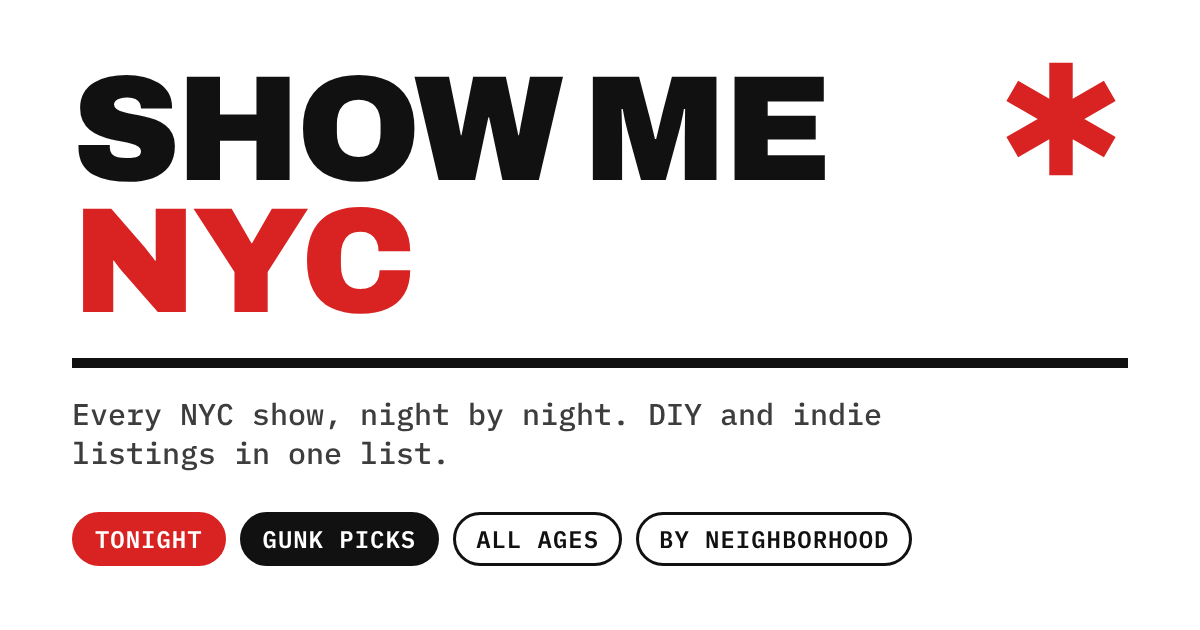
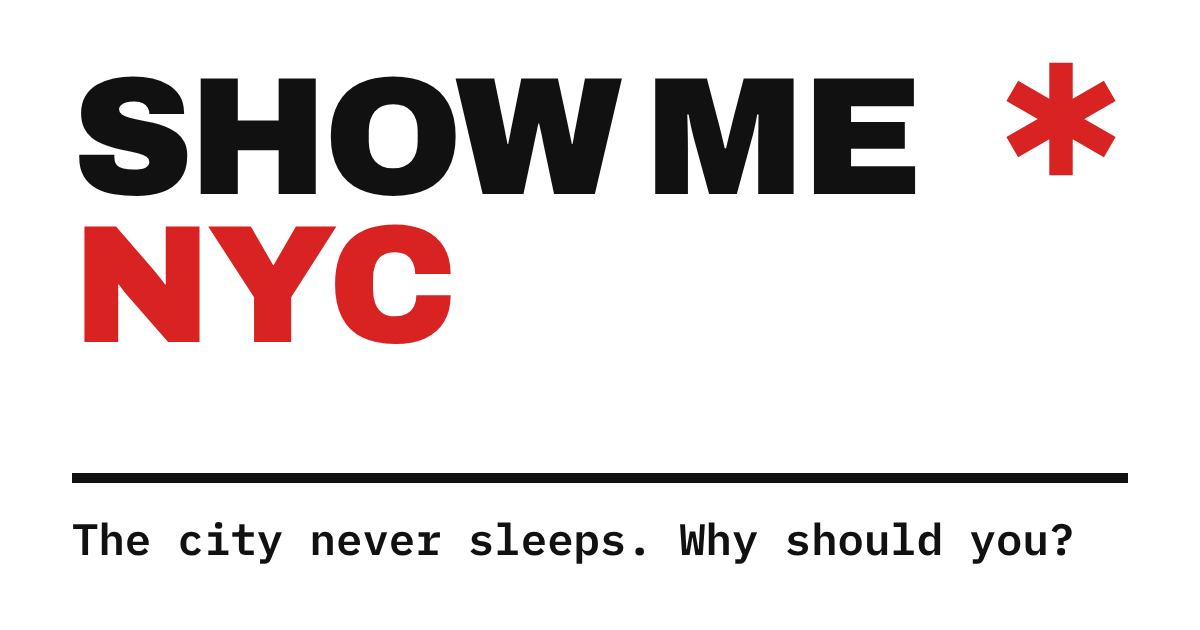
Shorter, kitschier tagline for the site and share preview
'The city never sleeps. Why should you?' replaces the descriptive line
on the masthead, the preview image and the share description; the page
title becomes 'Show Me NYC — who's playing tonight?'. The preview image
drops the chip row.

Claude-Session: https://claude.ai/code/session_01Aeg52sdzkhP7vBeNHMbwe7

diff --git a/index.html b/index.html
@@ -6,15 +6,15 @@
     <meta name="color-scheme" content="light dark" />
     <meta name="theme-color" content="#ffffff" media="(prefers-color-scheme: light)" />
     <meta name="theme-color" content="#0d0d0d" media="(prefers-color-scheme: dark)" />
-    <title>Show Me NYC — every NYC show, night by night</title>
-    <meta name="description" content="Every NYC show this month in one list: DIY and indie listings from GUNK New York and around the city. Filter by area, age and date, and save the ones you want." />
+    <title>Show Me NYC — who's playing tonight?</title>
+    <meta name="description" content="The city never sleeps. Why should you? Every show in NYC, night by night." />
     <link rel="canonical" href="https://talmanjoseph-creator.github.io/gunk-shows-dashboard/" />
     <meta property="og:type" content="website" />
     <meta property="og:site_name" content="Show Me NYC" />
-    <meta property="og:title" content="Show Me NYC — every NYC show, night by night" />
-    <meta property="og:description" content="DIY and indie listings from GUNK New York and around the city, in one list. Filter by area, age and date." />
+    <meta property="og:title" content="Show Me NYC — who's playing tonight?" />
+    <meta property="og:description" content="The city never sleeps. Why should you?" />
     <meta property="og:url" content="https://talmanjoseph-creator.github.io/gunk-shows-dashboard/" />
-    <meta property="og:image" content="https://talmanjoseph-creator.github.io/gunk-shows-dashboard/og.png" />
+    <meta property="og:image" content="https://talmanjoseph-creator.github.io/gunk-shows-dashboard/og.png?v=2" />
     <meta property="og:image:width" content="1200" />
     <meta property="og:image:height" content="630" />
     <meta name="twitter:card" content="summary_large_image" />
@@ -366,7 +366,7 @@
     <div class="wrap">
       <header class="mast">
         <h1>Show Me <span class="red">NYC</span></h1>
-        <p class="tagline">Every show in the city, night by night.</p>
+        <p class="tagline">The city never sleeps. Why should you?</p>
         <a class="hook" id="hook" href="#days" hidden></a>
         <p class="mast-meta" id="mastMeta"></p>
       </header>
@@ -704,7 +704,6 @@
 
         // Masthead, stats, notes, colophon.
         var G = SHOW_META.gunk, O = SHOW_META.other;
-        document.title = "Show Me NYC — every NYC show, " + MONTHS[MONTH] + " " + YEAR;
         // Masthead: one hook (tonight's count, linking to tonight) and one line of totals.
         var tonightInTown = SHOWS.filter(function (s) { return s[0] === todayKey && s.area !== "out"; }).length;
         if (inMonth && tonightInTown) {
